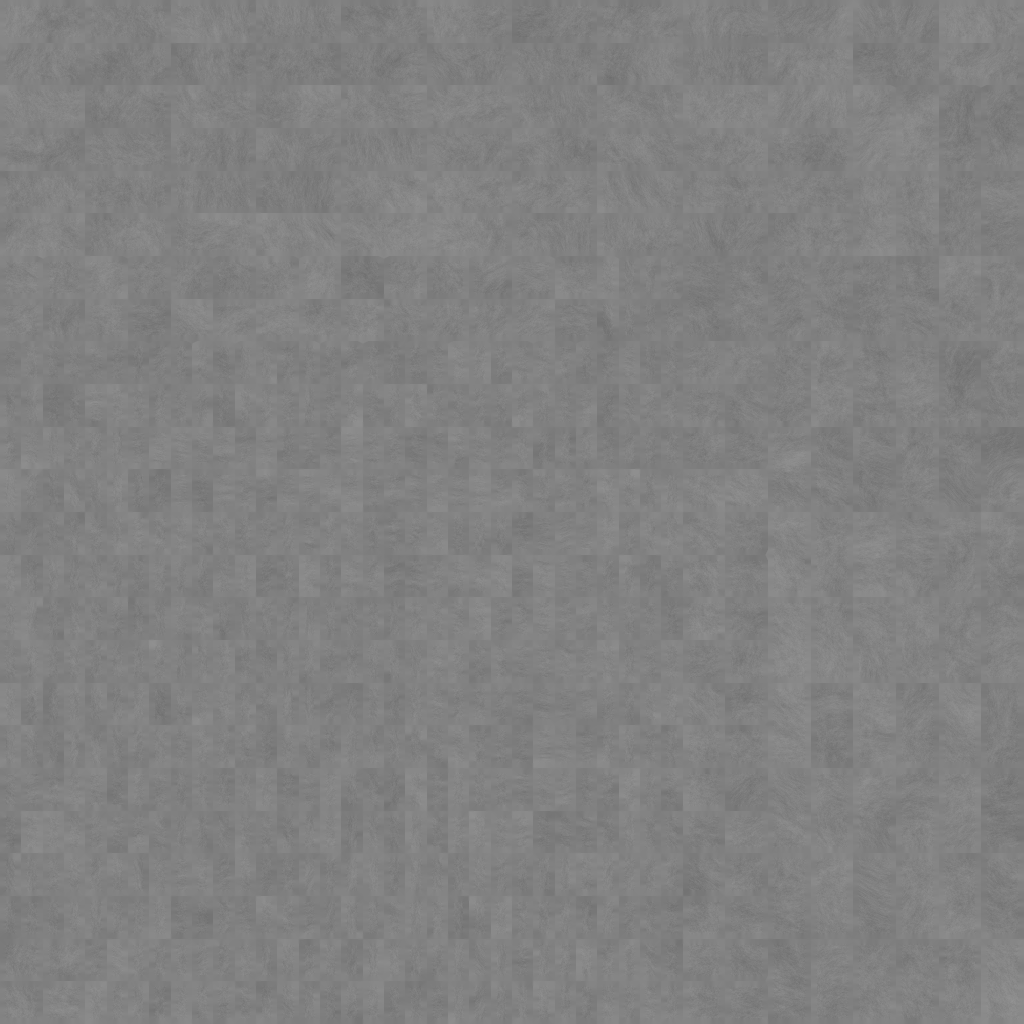
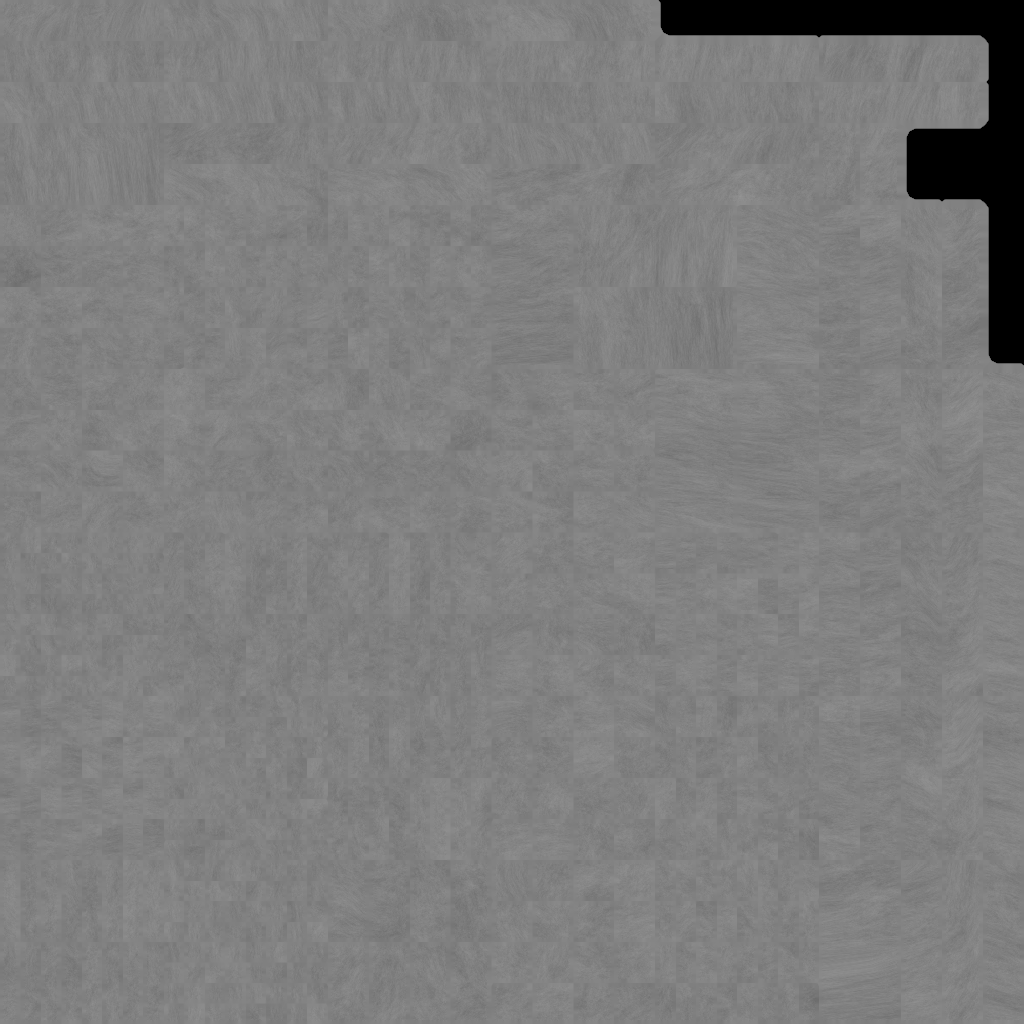
Window frame

Changed region(s): [[0.625, 0.0, 1.0, 0.375]]

diff --git a/src/components/Rocket3d/RocketModel.tsx b/src/components/Rocket3d/RocketModel.tsx
@@ -62,7 +62,6 @@ export const RocketModel = forwardRef((props, ref) => {
     <meshPhysicalMaterial
       color="#aaa"
       roughnessMap={windowFrameRoughnessMap}
-      bumpScale={5}
       metalness={1}
       roughness={0.5}
     />
@@ -92,7 +91,7 @@ export const RocketModel = forwardRef((props, ref) => {
         {windowFrameMaterial}
       </EasyNodeToMesh>
       <EasyNodeToMesh node={Rocket_frame_hatch}>
-        {windowFrameMaterial}
+        <meshPhysicalMaterial color="#aaa" metalness={1} roughness={0.2} />
       </EasyNodeToMesh>
       <EasyNodeToMesh node={Rocket_window_hatch}>
         {windowMaterial}
